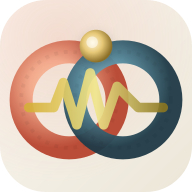
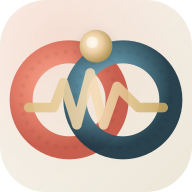
Atualiza paleta: coral #ec8871, dourado #eccea4
- Coral: #ec8871 (mais avermelhado/alaranjado)
- Dourado: #eccea4 (mais claro, mais amarelado)
- Atualiza variáveis CSS (--accent, --chrome e suas variações)
- Regenera SVG do logótipo com gradientes das novas cores
- Regenera icon-192.png, icon-512.png, badge-96.png

Changed region(s): [[0.125, 0.1562, 0.875, 0.6875]]

diff --git a/index.html b/index.html
@@ -21,8 +21,8 @@
   /* Paleta fixa da app (coral/azul-aço/dourado, a partir do logótipo) — sem
      personalização de cor nem alternância claro/escuro; é sempre este esquema. */
   :root {
-    --accent:#e17b5e; --accent-dark:#c25f45; --accent-glow:#f2a688;
-    --chrome:#c9a34d; --chrome-dark:#9c7a2e; --chrome-glow:#e6c877;
+    --accent:#ec8871; --accent-dark:#d46957; --accent-glow:#f5a89a;
+    --chrome:#eccea4; --chrome-dark:#c9a860; --chrome-glow:#f5ddb8;
     --blue:#3e6b82; --blue-dark:#2c4e60; --blue-glow:#6f9cb2;
     --green:#416e7f; --green-dark:#2d4a57; --green-glow:#5a8fa3;
   }
